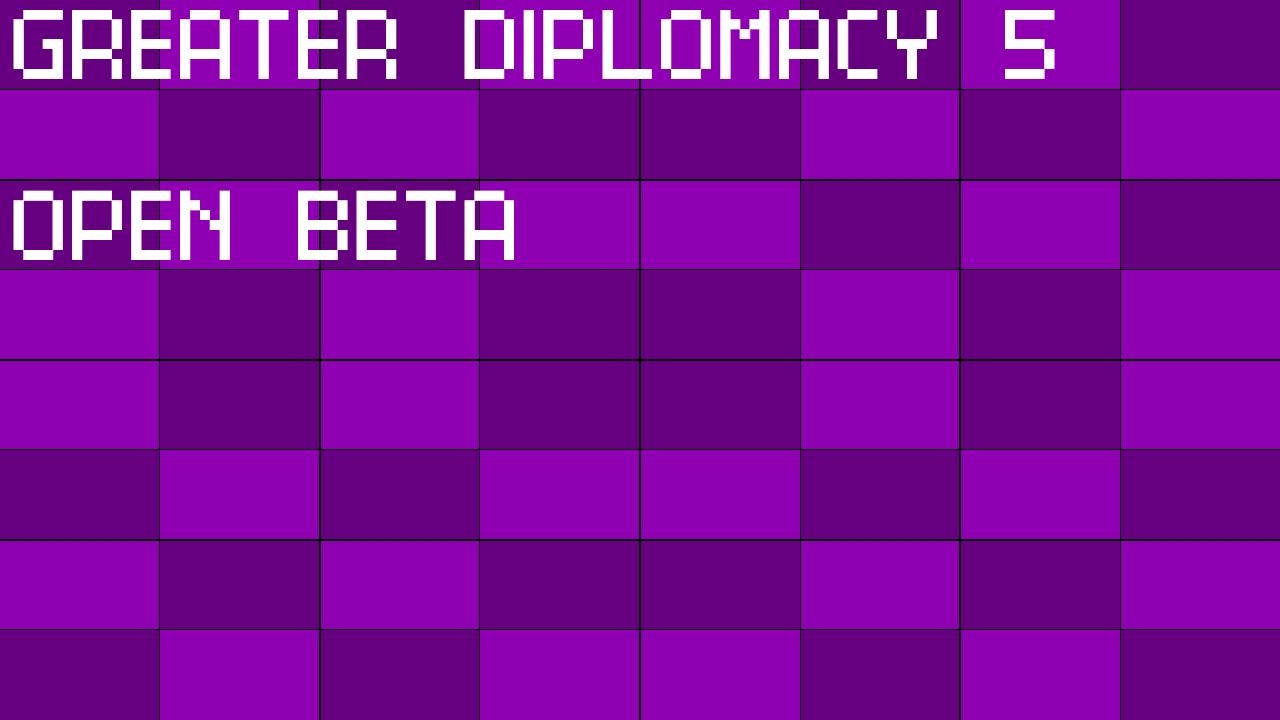
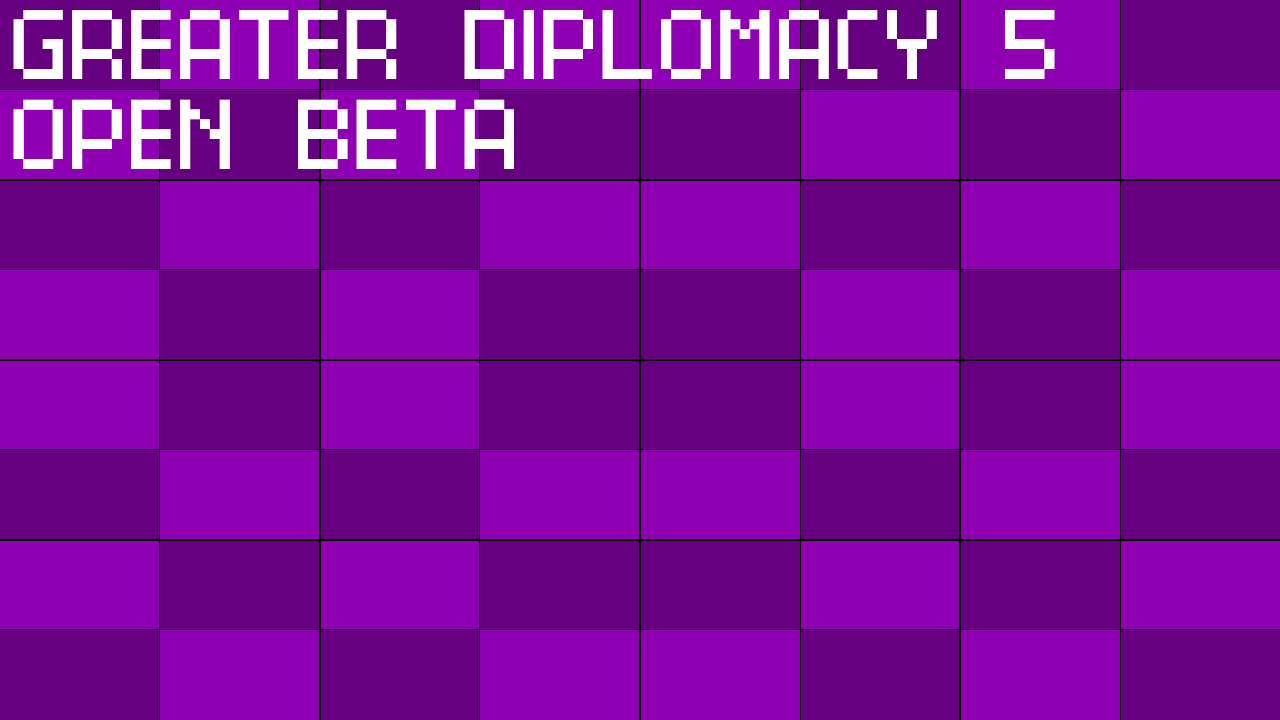
added text to the bottom left corner of the menu, also made the god mode buttons in spectator mode more squished so the buttons didn't intersect, and added in some more flags

Changed region(s): [[0.2188, 0.1222, 0.4062, 0.3667], [0.0, 0.1222, 0.1875, 0.3667]]

diff --git a/ui/buttons.py b/ui/buttons.py
@@ -110,13 +110,13 @@ def render_buttons(self):
     self.btn_reject_req = Button(diplo_x, c.ACTION_BTN_START_Y + c.ACTION_BTN_STEP_Y, "diplomatic", "red", "Reject Request", lambda: player_diplomacy_actions.handle_reject_req(self))
 
     # Spectator God Power Buttons
-    self.btn_force_war = Button(c.ACTION_BTN_X, c.ACTION_BTN_START_Y, "medium", "red", "Force War", lambda: spectator_menus.force_war_menu(self))
-    self.btn_force_peace = Button(c.ACTION_BTN_X, c.ACTION_BTN_START_Y + c.ACTION_BTN_STEP_Y, "medium", "green", "Force Ceasefire", lambda: spectator_menus.force_peace_menu(self))
-    self.btn_spec_create_fac = Button(c.ACTION_BTN_X, c.ACTION_BTN_START_Y + c.ACTION_BTN_STEP_Y * 2, "medium", "blue", "Create Faction", lambda: spectator_menus.spec_create_faction(self))
-    self.btn_spec_join_fac = Button(c.ACTION_BTN_X, c.ACTION_BTN_START_Y + c.ACTION_BTN_STEP_Y * 3, "medium", "green", "Join Faction", lambda: spectator_menus.spec_join_faction(self))
-    self.btn_spec_invite_fac = Button(c.ACTION_BTN_X, c.ACTION_BTN_START_Y + c.ACTION_BTN_STEP_Y * 2, "medium", "blue", "Invite to Faction", lambda: spectator_menus.spec_invite_faction(self))
-    self.btn_spec_leave_fac = Button(c.ACTION_BTN_X, c.ACTION_BTN_START_Y + c.ACTION_BTN_STEP_Y * 3, "medium", "orange", "Leave Faction", lambda: spectator_menus.spec_leave_faction(self))
-    self.btn_spec_disband_fac = Button(c.ACTION_BTN_X, c.ACTION_BTN_START_Y + c.ACTION_BTN_STEP_Y * 3, "medium", "red", "Disband Faction", lambda: spectator_menus.spec_disband_faction(self))
+    self.btn_force_war = Button(c.ACTION_BTN_X, c.ACTION_BTN_START_Y, "diplomatic", "red", "Force War", lambda: spectator_menus.force_war_menu(self))
+    self.btn_force_peace = Button(c.ACTION_BTN_X, c.ACTION_BTN_START_Y + c.ACTION_BTN_STEP_Y, "diplomatic", "green", "Force Ceasefire", lambda: spectator_menus.force_peace_menu(self))
+    self.btn_spec_create_fac = Button(c.ACTION_BTN_X, c.ACTION_BTN_START_Y + c.ACTION_BTN_STEP_Y * 2, "diplomatic", "blue", "Create Faction", lambda: spectator_menus.spec_create_faction(self))
+    self.btn_spec_join_fac = Button(c.ACTION_BTN_X, c.ACTION_BTN_START_Y + c.ACTION_BTN_STEP_Y * 3, "diplomatic", "yellow", "Join Faction", lambda: spectator_menus.spec_join_faction(self))
+    self.btn_spec_invite_fac = Button(c.ACTION_BTN_X, c.ACTION_BTN_START_Y + c.ACTION_BTN_STEP_Y * 2, "diplomatic", "blue", "Invite to Faction", lambda: spectator_menus.spec_invite_faction(self))
+    self.btn_spec_leave_fac = Button(c.ACTION_BTN_X, c.ACTION_BTN_START_Y + c.ACTION_BTN_STEP_Y * 3, "diplomatic", "orange", "Leave Faction", lambda: spectator_menus.spec_leave_faction(self))
+    self.btn_spec_disband_fac = Button(c.ACTION_BTN_X, c.ACTION_BTN_START_Y + c.ACTION_BTN_STEP_Y * 3, "diplomatic", "red", "Disband Faction", lambda: spectator_menus.spec_disband_faction(self))
 
     # General Controls
     self.btn_spectator = Button(c.LEFT_UI_BAR_X, c.BTN_SPECTATOR_Y, "medium", "grey", "Spectator Mode", lambda: player_setup.start_spectator(self))

diff --git a/screens/menu.py b/screens/menu.py
@@ -2,6 +2,7 @@ import ui_elements
 from gameState import GameState
 from ui_elements import Button
 import data.constants as c
+from map_logic.rendering.font_manager import fonts
 
 class Menu(GameState):
     def __init__(self):
@@ -16,6 +17,18 @@ class Menu(GameState):
             Button("centered", "centered + 140", "medium", "blue", "Music Player", self.music_player, image=ui_elements.UI_ICONS.get("music")),
             Button("centered", "centered + 220", "medium", "grey", "Settings", self.settings, image=ui_elements.UI_ICONS.get("settings"))
         ]
+
+    def additional_draw(self, surface):
+        font = fonts.get("heading2")
+        display_str = f"{c.MENU_BOTTOM_LEFT_TEXT}"
+        
+        # Shadow
+        shadow = font.render(display_str, True, (0, 0, 0))
+        surface.blit(shadow, (21, c.SCREEN_HEIGHT - 39))
+        
+        # Main text
+        text_surf = font.render(display_str, True, (255, 255, 255))
+        surface.blit(text_surf, (20, c.SCREEN_HEIGHT - 40))
 
     def new_game(self):
         self.next_state = "NEW_GAME"

diff --git a/data/constants.py b/data/constants.py
@@ -79,6 +79,8 @@ POPUP_OFFSET_STEP = 30
 # DEFAULTS & ASSETS
 # ==========================================
 
+MENU_BOTTOM_LEFT_TEXT = "Last Updated: May 14th, 2026" # Edit this string to change the text on the main menu
+
 DEFAULT_BG_COLOR = (30, 30, 30)
 ICON_PATH = 'assets/icon/icon.png'
 
@@ -559,7 +561,8 @@ PORTRAIT_SIZE = (60, 60)
 # Fonts & Sounds
 FONT_PATH_DEFAULT = "assets/fonts/W95F.otf"
 #FONT_PATH_MAP = "assets/fonts/OpenSans-Regular.ttf"
-FONT_PATH_MAP = "assets/fonts/VerilySerifMono.otf"
+#FONT_PATH_MAP = "assets/fonts/VerilySerifMono.otf"
+FONT_PATH_MAP = "assets/fonts/PixelOperatorMonoHB.ttf"
 
 # UI Specific Font Paths
 FONT_PATH_DATE = "assets/fonts/MonoSpatial.ttf"